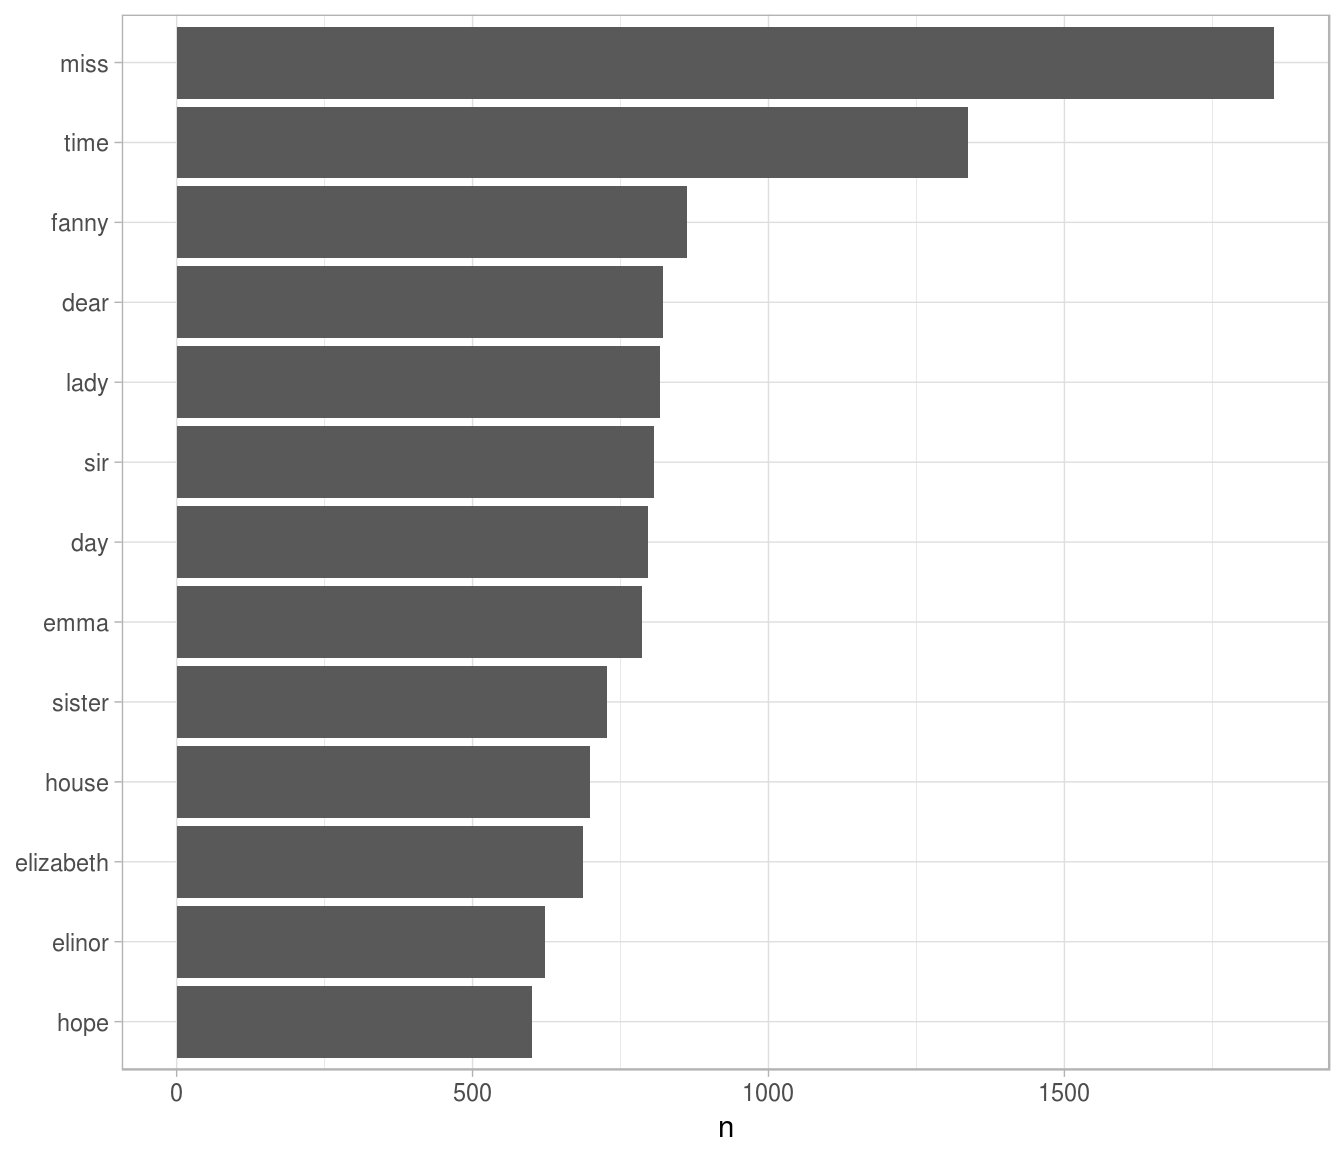
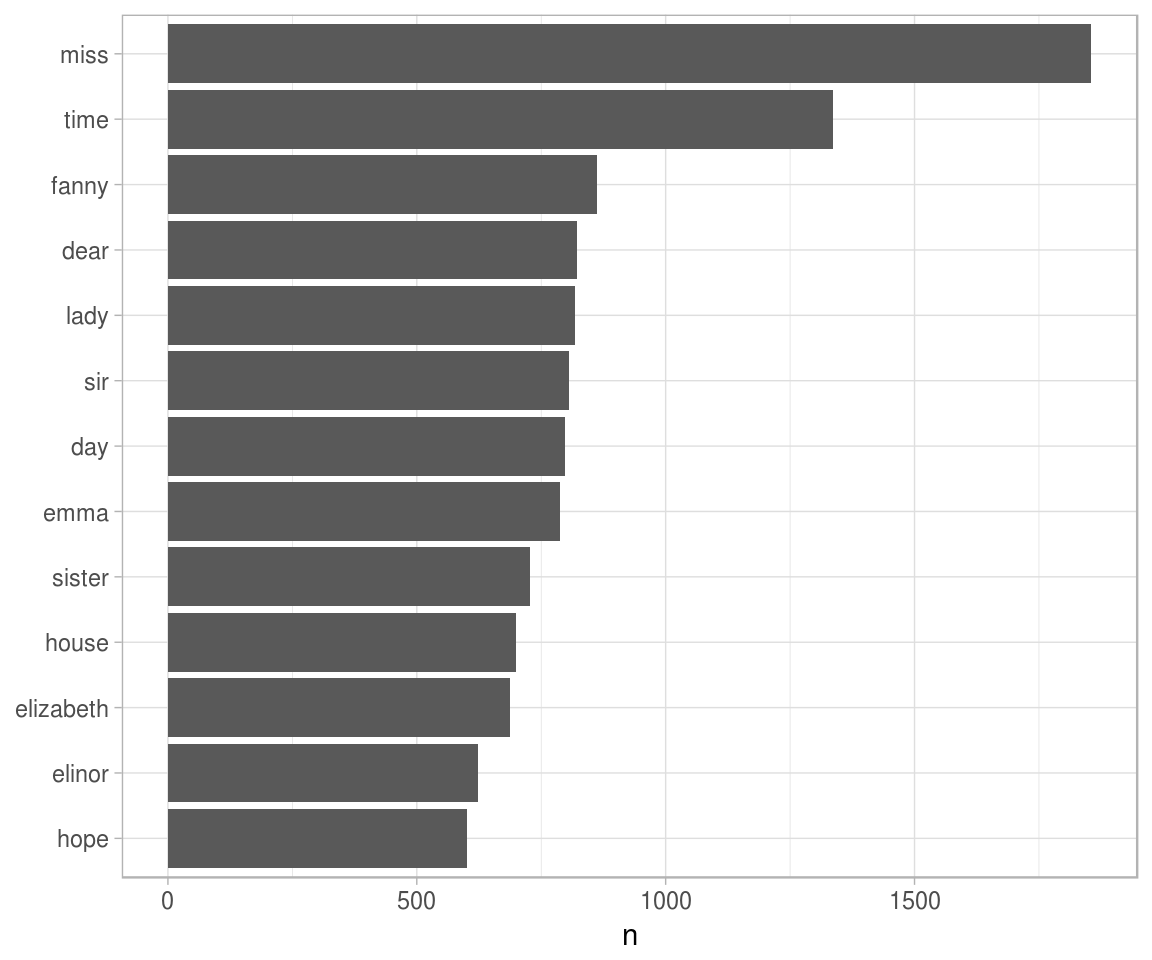
Updating book (67)

diff --git a/tidytext.html b/tidytext.html
@@ -334,16 +334,16 @@ tidy_books &lt;-<span class="st"> </span>tidy_books %&gt;%
 ## # ... with 13,904 more rows</code></pre>
 <p>For example, this allows us to visualize the commonly used words using ggplot2.</p>
 <div class="sourceCode"><pre class="sourceCode r"><code class="sourceCode r"><span class="kw">library</span>(ggplot2)
-<span class="kw">library</span>(ggstance)
 
 tidy_books %&gt;%
 <span class="st">  </span><span class="kw">count</span>(word, <span class="dt">sort =</span> <span class="ot">TRUE</span>) %&gt;%
 <span class="st">  </span><span class="kw">filter</span>(n &gt;<span class="st"> </span><span class="dv">600</span>) %&gt;%
 <span class="st">  </span><span class="kw">mutate</span>(<span class="dt">word =</span> <span class="kw">reorder</span>(word, n)) %&gt;%
-<span class="st">  </span><span class="kw">ggplot</span>(<span class="kw">aes</span>(n, word)) +
-<span class="st">  </span><span class="kw">geom_barh</span>(<span class="dt">stat =</span> <span class="st">&quot;identity&quot;</span>) +
-<span class="st">  </span><span class="kw">ylab</span>(<span class="ot">NULL</span>)</code></pre></div>
-<p><img src="02-tidy-text_files/figure-html/plot_count-1.png" width="672" /></p>
+<span class="st">  </span><span class="kw">ggplot</span>(<span class="kw">aes</span>(word, n)) +
+<span class="st">  </span><span class="kw">geom_bar</span>(<span class="dt">stat =</span> <span class="st">&quot;identity&quot;</span>) +
+<span class="st">  </span><span class="kw">xlab</span>(<span class="ot">NULL</span>) +
+<span class="st">  </span><span class="kw">coord_flip</span>()</code></pre></div>
+<p><img src="02-tidy-text_files/figure-html/plot_count-1.png" width="576" /></p>
 <p>We could pipe this straight into ggplot2 because of our consistent use of tidy tools.</p>
 </div>
 <div id="the-gutenbergr-package" class="section level2">
@@ -413,13 +413,12 @@ frequency &lt;-<span class="st"> </span>tidy_both %&gt;%
 <span class="st">  </span><span class="kw">ungroup</span>()</code></pre></div>
 <p>We use <code>str_extract</code> here because the UTF-8 encoded texts from Project Gutenberg have some examples of words with underscores around them to indicate emphasis (like italics). The tokenizer treated these as words but we don’t want to count “_any_” separately from “any”. Now let’s plot.</p>
 <div class="sourceCode"><pre class="sourceCode r"><code class="sourceCode r"><span class="kw">library</span>(scales)
-<span class="kw">ggplot</span>(frequency, <span class="kw">aes</span>(<span class="dt">x =</span> other, <span class="dt">y =</span> Austen, <span class="dt">color =</span> <span class="kw">abs</span>(Austen -<span class="st"> </span>other))) +
+<span class="kw">ggplot</span>(frequency, <span class="kw">aes</span>(<span class="dt">x =</span> other, <span class="dt">y =</span> Austen)) +
 <span class="st">  </span><span class="kw">geom_abline</span>(<span class="dt">color =</span> <span class="st">&quot;red&quot;</span>) +
 <span class="st">  </span><span class="kw">geom_jitter</span>(<span class="dt">alpha =</span> <span class="fl">0.1</span>, <span class="dt">size =</span> <span class="fl">2.5</span>, <span class="dt">width =</span> <span class="fl">0.4</span>, <span class="dt">height =</span> <span class="fl">0.4</span>) +
 <span class="st">  </span><span class="kw">geom_text</span>(<span class="kw">aes</span>(<span class="dt">label =</span> word), <span class="dt">check_overlap =</span> <span class="ot">TRUE</span>, <span class="dt">vjust =</span> <span class="fl">1.5</span>) +
 <span class="st">  </span><span class="kw">scale_x_log10</span>(<span class="dt">labels =</span> <span class="kw">percent_format</span>()) +
 <span class="st">  </span><span class="kw">scale_y_log10</span>(<span class="dt">labels =</span> <span class="kw">percent_format</span>()) +
-<span class="co">#  scale_color_gradient(limits = c(0, 0.001), low = &quot;gray30&quot;, high = &quot;gray75&quot;) +</span>
 <span class="st">  </span><span class="kw">facet_wrap</span>(~author, <span class="dt">ncol =</span> <span class="dv">2</span>) +
 <span class="st">  </span><span class="kw">theme</span>(<span class="dt">legend.position=</span><span class="st">&quot;none&quot;</span>) +
 <span class="st">  </span><span class="kw">labs</span>(<span class="dt">y =</span> <span class="st">&quot;Jane Austen&quot;</span>, <span class="dt">x =</span> <span class="ot">NULL</span>)</code></pre></div>

diff --git a/02-tidy-text.md b/02-tidy-text.md
@@ -192,18 +192,18 @@ For example, this allows us to visualize the commonly used words using ggplot2.
 
 ```r
 library(ggplot2)
-library(ggstance)
 
 tidy_books %>%
   count(word, sort = TRUE) %>%
   filter(n > 600) %>%
   mutate(word = reorder(word, n)) %>%
-  ggplot(aes(n, word)) +
-  geom_barh(stat = "identity") +
-  ylab(NULL)
+  ggplot(aes(word, n)) +
+  geom_bar(stat = "identity") +
+  xlab(NULL) +
+  coord_flip()
 ```
 
-<img src="02-tidy-text_files/figure-html/plot_count-1.png" width="672" />
+<img src="02-tidy-text_files/figure-html/plot_count-1.png" width="576" />
 
 We could pipe this straight into ggplot2 because of our consistent use of tidy tools.
 
@@ -321,13 +321,12 @@ We use `str_extract` here because the UTF-8 encoded texts from Project Gutenberg
 
 ```r
 library(scales)
-ggplot(frequency, aes(x = other, y = Austen, color = abs(Austen - other))) +
+ggplot(frequency, aes(x = other, y = Austen)) +
   geom_abline(color = "red") +
   geom_jitter(alpha = 0.1, size = 2.5, width = 0.4, height = 0.4) +
   geom_text(aes(label = word), check_overlap = TRUE, vjust = 1.5) +
   scale_x_log10(labels = percent_format()) +
   scale_y_log10(labels = percent_format()) +
-#  scale_color_gradient(limits = c(0, 0.001), low = "gray30", high = "gray75") +
   facet_wrap(~author, ncol = 2) +
   theme(legend.position="none") +
   labs(y = "Jane Austen", x = NULL)
